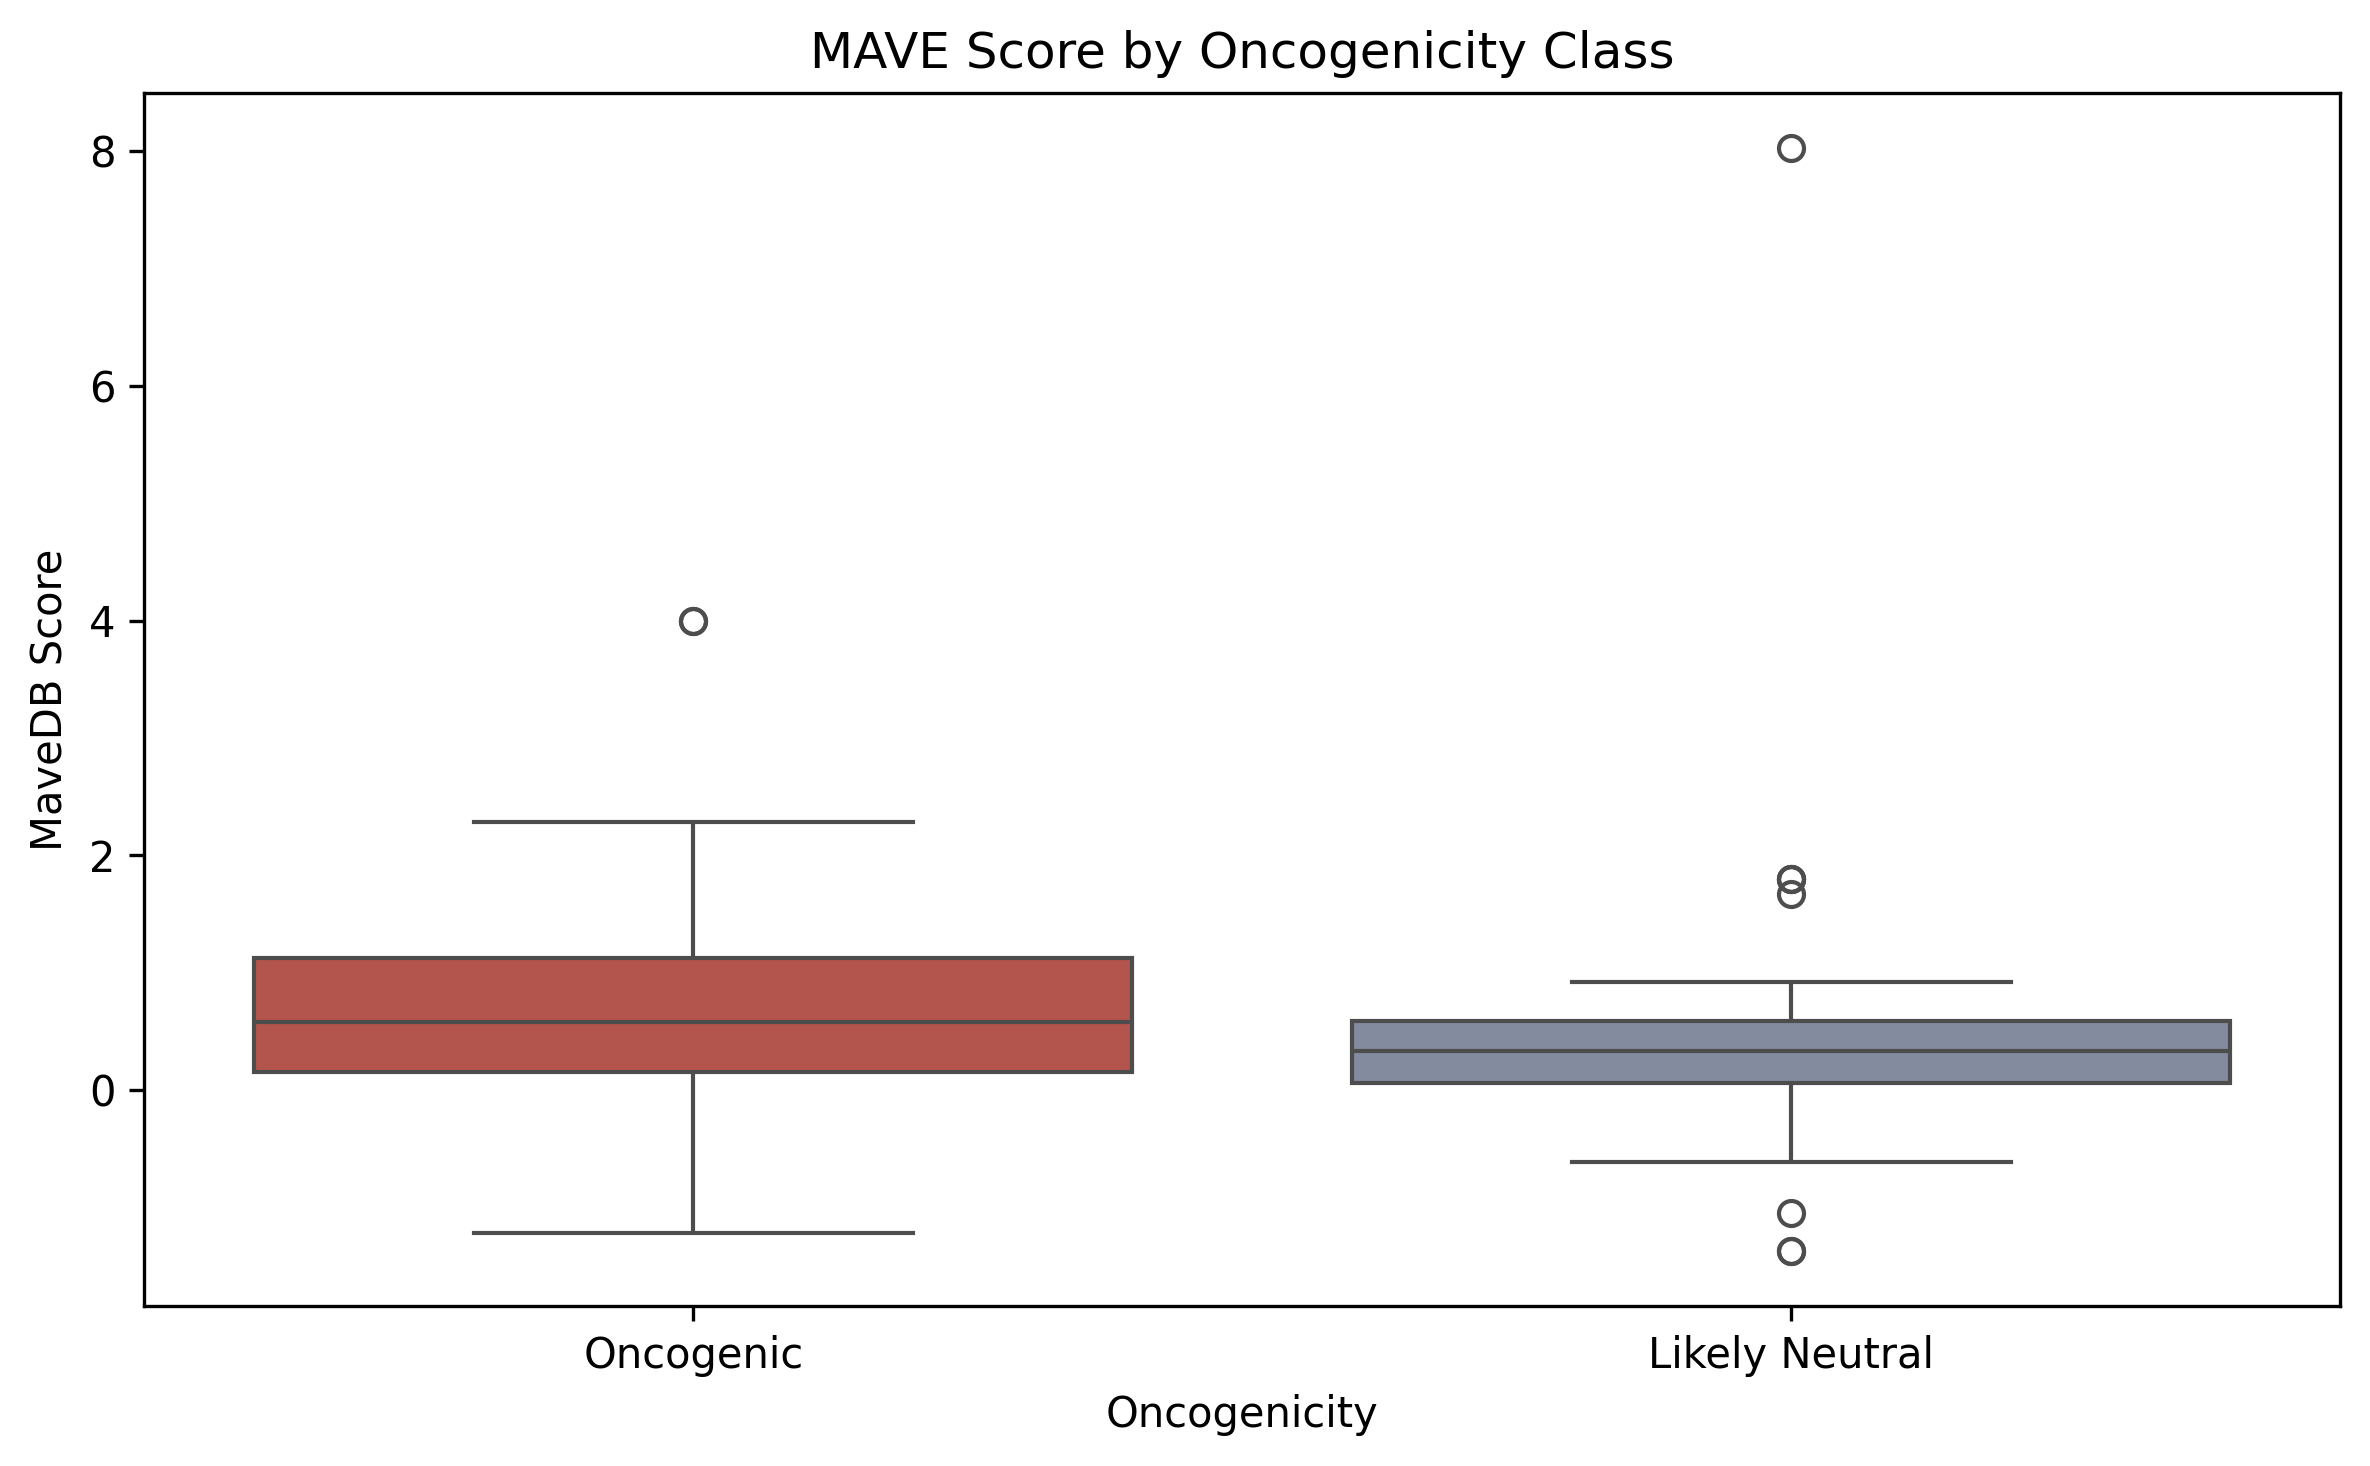
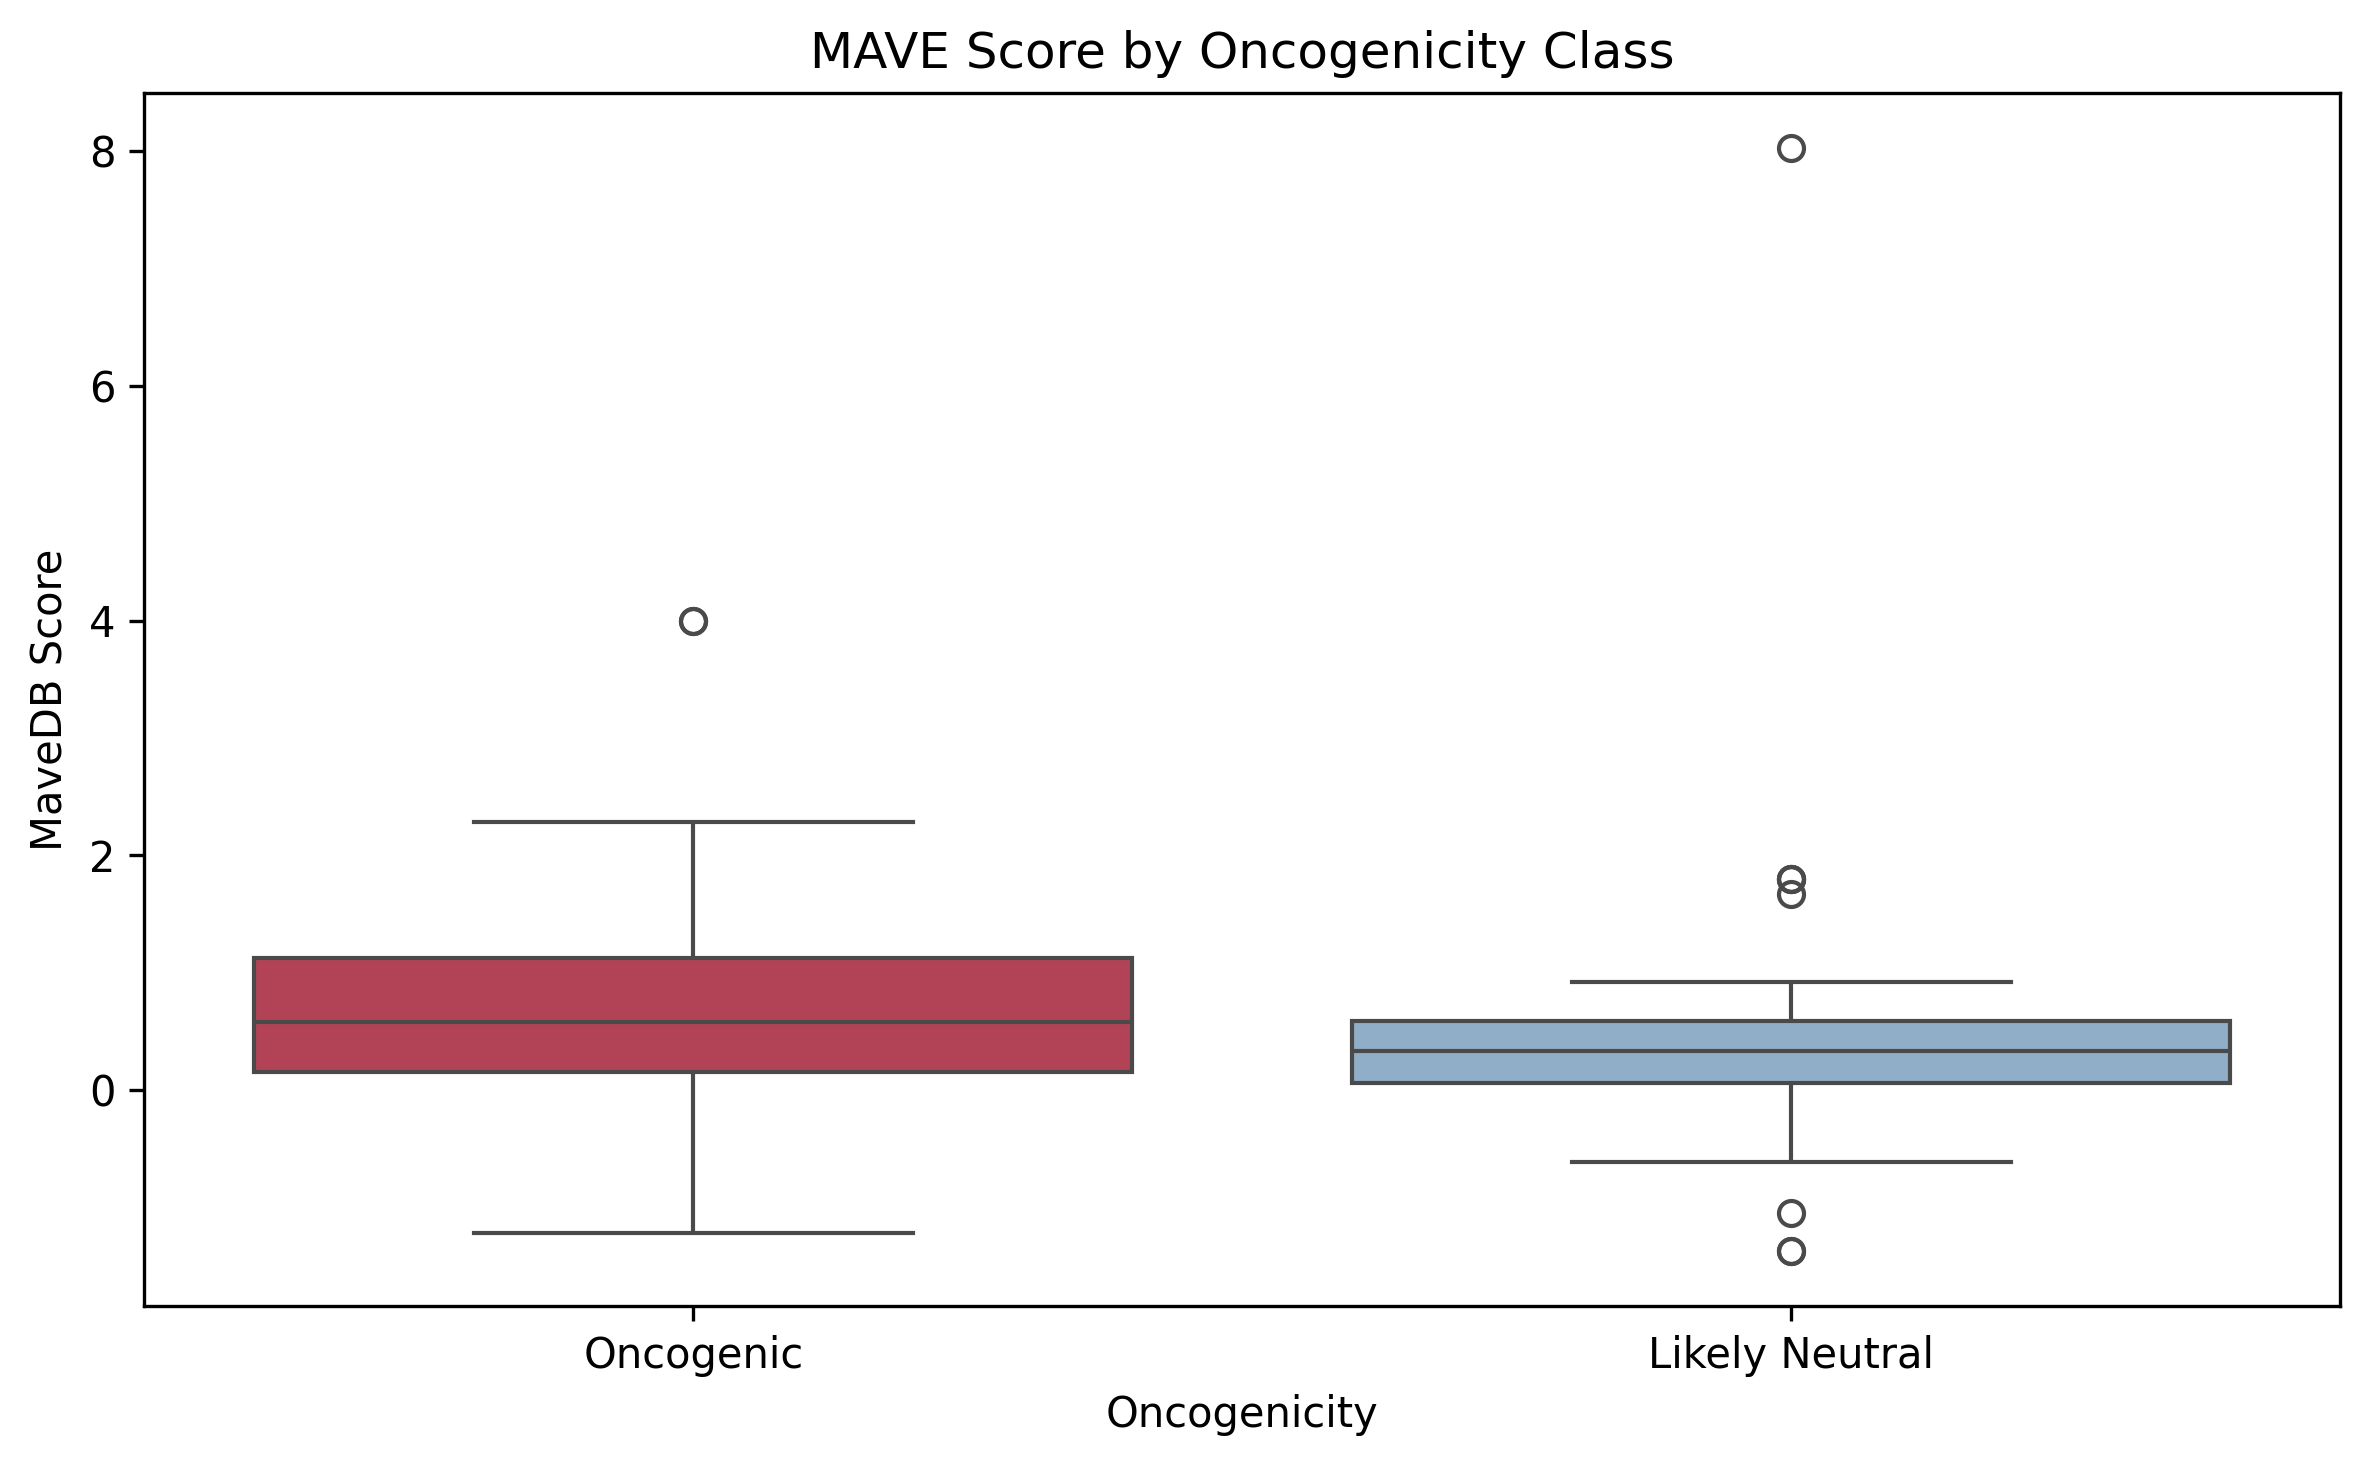
update statistics, requirements

Changed region(s): [[0.562, 0.6753, 0.9367, 0.7367]]

diff --git a/scripts/variants_with_maves.py b/scripts/variants_with_maves.py
@@ -85,9 +85,9 @@ print(oncogenicity_summary,"\n")
 print("Plotting MAVE score per oncogenicity class...")
 
 oncogenicity_palette = {
-    "Oncogenic": "#C4473B",
+    "Oncogenic": "#c4314a",
     "Likely Oncogenic": "#D98C6A",
-    "Likely Neutral": "#7e8aa2",
+    "Likely Neutral": "#88aed1",
     "Inconclusive": "#f9c74f",
     "Unknown": "#848a8e",
     "Resistance": "#ba7ad4"
@@ -183,9 +183,9 @@ top_genes_pivot = top_genes_data.pivot(index="Hugo_Symbol", columns ="ONCOGENIC"
 top_genes_pivot = top_genes_pivot.loc[top_genes_pivot.sum(axis=1).sort_values(ascending=False).index]
 
 three_classes_palette = {
-    "Oncogenic": "#C4473B",
+    "Oncogenic": "#c4314a",
     "Likely Oncogenic": "#D98C6A",
-    "Likely Neutral": "#7e8aa2",
+    "Likely Neutral": "#88aed1",
 }
 
 print("Plotting oncogenicity distribution in top genes with MAVE scores..")
@@ -236,8 +236,8 @@ top_genes_comparison_pivot = top_genes_comparison_data.pivot(index="Hugo_Symbol"
 top_genes_comparison_pivot = top_genes_comparison_pivot.loc[top_genes_comparison_pivot.sum(axis=1).sort_values(ascending=False).index]
 
 two_classes_palette = {
-    "Oncogenic": "#C4473B",
-    "Likely Neutral": "#7e8aa2",
+    "Oncogenic": "#c4314a",
+    "Likely Neutral": "#88aed1",
 }
 
 print("Plotting variant counts in top genes with mave scores..")
@@ -284,8 +284,8 @@ mavescore_plot = variants_onco_vs_neutral.dropna(subset=["MaveDB_score"])
 
 # standardize colors 
 palette={
-  "Oncogenic": "#C4473B",
-  "Likely Neutral": "#7e8aa2"
+  "Oncogenic": "#c4314a",
+  "Likely Neutral": "#88aed1"
   }
 
 print("Plotting boxplot of MAVE score data...\n")
@@ -328,16 +328,89 @@ sns.kdeplot(
   fill=True,
   common_norm=False,
   palette=palette, 
-  alpha=0.5
+  alpha=0.5,
+  linewidth=0.2, 
+  legend=True
 )
 
-plt.title("MAVE Score by Oncogenicity Class", fontsize=14)
-plt.xlabel("MaveDB Score", fontsize=12)
+plt.title("Distribution of MAVE Scores: Oncogenicity", fontsize=14)
+plt.xlabel("MaveDB Score (Functional Impact)", fontsize=12)
 plt.ylabel("Density", fontsize=12)
+
+plt.tight_layout() 
 plt.savefig("plots/mave_scores_comparison.png", bbox_inches='tight')
 plt.show()
 
 print("Plotting complete! Plot saved as 'plots/mave_scores_comparison.png'.")
 print("-"*30)
+
+
+
+# ------------------------------------------------------------
+# Density plot og MAVE scores per mutation effect (LOF/GOF) 
+# ------------------------------------------------------------
+
+mechanism_map = {
+    "Likely Loss-of-function": "Loss-of-function",
+    "Loss-of-function": "Loss-of-function",
+    "Likely Gain-of-function": "Gain-of-function",
+    "Gain-of-function": "Gain-of-function"
+}
+
+variants['Simplified_Mechanism'] = variants['MUTATION_EFFECT'].map(mechanism_map)
+
+# Filter data
+onco_set = variants[
+    (variants["ONCOGENIC"] == "Oncogenic") & 
+    (variants["Simplified_Mechanism"])
+].copy()
+
+palette = {"Loss-of-function": "#c4314a", "Gain-of-function": "#88aed1"}
+
+# Plot settings 
+sns.set_theme(style="whitegrid")
+plt.figure(figsize=(8,5)) 
+
+# Density plot with oncogenic and neutral variants 
+print("Plotting distribution of mave scores between LoF and GoF variants..")
+
+sns.kdeplot(
+  data=onco_set,
+  x="MaveDB_score",
+  hue="Simplified_Mechanism",
+  fill=True,
+  common_norm=False,
+  palette=palette, 
+  alpha=0.5, 
+  linewidth=0.2, 
+  legend=True
+)
+
+plt.gca().get_legend().set_title("Variant Mechanism")
+plt.title('Distribution of MAVE Scores: GoF vs. LoF (Oncogenic Variants)', fontsize=14)
+plt.xlabel('MaveDB Score (Functional Impact)', fontsize=12)
+plt.ylabel('Density', fontsize=12)
+
+plt.tight_layout() 
+plt.savefig("plots/mave_scores_lof_gof.png", bbox_inches='tight')
+plt.show()
+
+print("Plotting complete! Plot saved as 'plots/mave_scores_lof_gof.png'.")
+print("-"*30)
+
+
+# Filter out variants without MAVE-score 
+mave_variants = variants[variants['MaveDB_score'].notna()]
+
+# Make cross table
+mave_effect_counts = pd.crosstab(
+    mave_variants['MUTATION_EFFECT'], 
+    mave_variants['ONCOGENIC'], 
+    margins=True, 
+    margins_name="Total"
+)
+
+print("Variants with MAVE-score per mutation effect:")
+print(mave_effect_counts)
 
 print("\nMAVEs analysis complete!🥳🥳\n")

diff --git a/scripts/stats_all_variants.py b/scripts/stats_all_variants.py
@@ -37,5 +37,41 @@ variants["has_gnomAD_AF"] = (
 # define the features 
 features = ["gnomAD_AF", "has_gnomAD_AF", "In_Hotspot", "IN_DOMAIN", "IN_FUNC_SITE", "Germline_Proximity", "MaveDB_score"]
 
-if __name__ == "__main__":
-  stats_func(variants, features, "Top 10 oncogenic genes")
+stats_func(variants, features, "All variants") 
+
+##-------------------------------------------
+# Statistics MAVEs LOF vs GOF
+#-------------------------------------------
+
+import pandas as pd
+import numpy as np
+from scipy.stats import mannwhitneyu
+
+# check distribution of lof and gof 
+effect_summary = variants.groupby("MUTATION_EFFECT").size()
+print(effect_summary, "\n")
+
+# create lof and gof labels
+lof_labels = ["Likely Loss-of-function", "Loss-of-function"]
+gof_labels = ["Likely Gain-of-function", "Gain-of-function"]
+
+# define the data
+lof_variants = variants[variants["MUTATION_EFFECT"].isin(lof_labels)]
+gof_variants = variants[variants["MUTATION_EFFECT"].isin(gof_labels)]
+
+lof_oncogenic = lof_variants[lof_variants["ONCOGENIC"] == "Oncogenic"]["MaveDB_score"].dropna()
+gof_oncogenic = gof_variants[gof_variants["ONCOGENIC"] == "Oncogenic"]["MaveDB_score"].dropna()
+
+# check number of variants 
+print(f"LoF oncogenic variants with MAVE score: {len(lof_oncogenic)}")
+print(f"GoF oncogenic variants with MAVE score: {len(gof_oncogenic)}")
+
+# perform statistics 
+stat, p = mannwhitneyu(lof_oncogenic, gof_oncogenic, alternative="two-sided")
+n1, n2 = len(lof_oncogenic), len(gof_oncogenic)
+r = (2 * stat) / (n1 * n2) - 1
+probability = (1 + r) / 2
+
+print(f"\nMann-Whitney U: {stat:.3f}, p-value: {p:.4f}")
+print(f"Rank-biserial r: {r:.3f} | P(LoF > GoF): {probability*100:.2f}%")
+print(f"{'Reject H₀: MAVE scores differ between GoF and LoF.' if p < 0.05 else 'Failed to reject H₀.'}")

diff --git a/scripts/stats_function.py b/scripts/stats_function.py
@@ -49,8 +49,8 @@ def stats_func(df, features, label="Dataset"):
             neutral = df[df["ONCOGENIC"] == "Likely Neutral"][f].dropna()
 
             if f == "gnomAD_AF":
-            oncogenic = oncogenic[oncogenic > 0]
-            neutral = neutral[neutral > 0]
+                oncogenic = oncogenic[oncogenic > 0]
+                neutral = neutral[neutral > 0]
 
             if len(oncogenic) == 0 or len(neutral) == 0:
                 print(f"[{f}] Skipped (not enough data)\n")
@@ -116,14 +116,16 @@ def stats_func(df, features, label="Dataset"):
 
             results.append({"feature": f, "test": test_used, "p_value": p})
                 
-
+     
     results_df = pd.DataFrame(results)
-    _, q_values, _, _ = multipletests(results_df["p_value"], method="fdr_bh")
-    results_df["q_value"] = q_values.round(4)
     results_df["p_value"] = results_df["p_value"].round(4)
 
+    if len(features) > 1:
+        _, q_values, _, _ = multipletests(results_df["p_value"], method="fdr_bh")
+        results_df["q_value"] = q_values.round(4)
 
-    print(f"\n{'-'*50}")
-    print("FDR-corrected results (Benjamini-Hochberg)")
-    print(f"{'-'*50}")
-    print(results_df.to_string(index=False))
+
+        print(f"{'-'*50}")
+        print("FDR-corrected results (Benjamini-Hochberg)")
+        print(f"{'-'*50}")
+        print(results_df.to_string(index=False))
